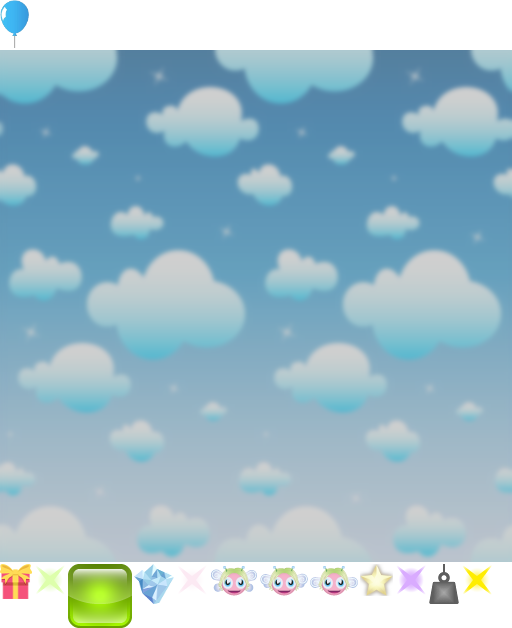
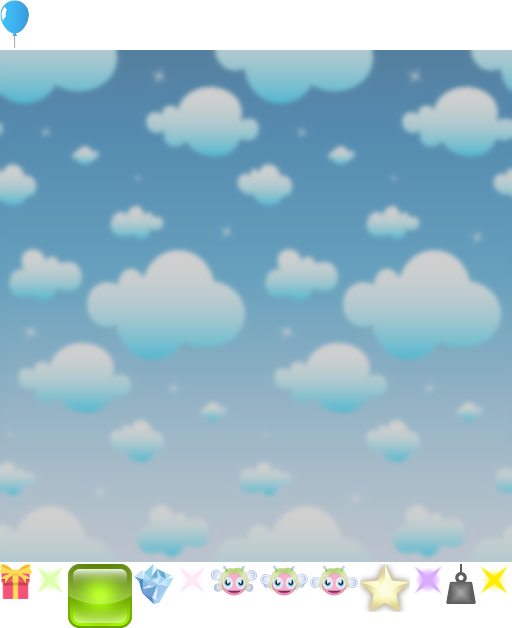
Show number of collected stars on game over success

Changed region(s): [[0.6875, 0.8774, 1.0, 0.9984]]

diff --git a/src/states/GameOverState.js b/src/states/GameOverState.js
@@ -1,4 +1,4 @@
-import { Container, TilingSprite, BitmapText } from '../const/aliases.js';
+import { Container, Sprite, TilingSprite, BitmapText } from '../const/aliases.js';
 
 import State from './State.js';
 import TitleState from './TitleState.js';
@@ -7,11 +7,11 @@ import KeyBinder from '../helpers/KeyBinder.js';
 import { RENDERER_WIDTH, RENDERER_HEIGHT } from '../const/appConstants.js';
 
 export default class GameOverState extends State {
-  constructor(stage, stateStack, textures, sounds, success) {
+  constructor(stage, stateStack, textures, sounds, success, numberOfStars) {
     super(stage, stateStack, textures, sounds);
 
     this.container.addChild(new TilingSprite(textures['clouds.png'], RENDERER_WIDTH, RENDERER_HEIGHT));
-    this.createTexts(success);
+    this.createTexts(success, numberOfStars);
 
     this.keyControllers.push(new KeyBinder(32, null, () => {
       this.popFromStack();
@@ -23,20 +23,35 @@ export default class GameOverState extends State {
     }
   }
 
-  createTexts(success) {
+  createTexts(success, numberOfStars) {
     const textContainer = new Container();
     this.container.addChild(textContainer);
 
-    let messageText = new BitmapText('Whoops!', {font: '64px pixie-font'});
+    let resultText = new BitmapText('Whoops!', {font: '64px pixie-font'});
     if (success) {
-      messageText.text = 'Yay!';
+      resultText.text = 'Congratulations!';
     }
-    messageText.anchor.x = 0.5;
-    textContainer.addChild(messageText);
+    resultText.anchor.x = 0.5;
+    textContainer.addChild(resultText);
 
-    let hintText = new BitmapText('Press space to continue', {font: '48px pixie-font'});
+    let yPos = resultText.height + 40;;
+
+    if (success) {
+      let starResultContainer =  new Container();
+      starResultContainer.addChild(new Sprite(this.textures['star.png']));
+      let messageText = new BitmapText(`x ${numberOfStars}`, {font: '48px pixie-font'});
+      messageText.x = 60;
+      messageText.y = 7;
+      starResultContainer.addChild(messageText);
+      starResultContainer.x -= starResultContainer.width / 2;
+      starResultContainer.y = yPos;
+      yPos += messageText.height + 40;
+      textContainer.addChild(starResultContainer);
+    }
+
+    let hintText = new BitmapText('Press space to continue', {font: '32px pixie-font'});
     hintText.anchor.x = 0.5;
-    hintText.y = messageText.y + messageText.height + 40;
+    hintText.y = yPos;
     textContainer.addChild(hintText);
 
     textContainer.x = RENDERER_WIDTH / 2;

diff --git a/src/game/World.js b/src/game/World.js
@@ -145,7 +145,10 @@ export default class World {
     let starsContainer = new Container();
     this.container.addChild(starsContainer);
 
-    starsContainer.addChild(new Sprite(this.textures['star.png']));
+    let star = new Sprite(this.textures['star.png']);
+    star.width = 33;
+    star.height = 32;
+    starsContainer.addChild(star);
     this.numberOfStarsText = new BitmapText(this.numberOfStars.toString(), {font: '30px pixie-font'});
     this.numberOfStarsText.x = 46;
     this.numberOfStarsText.y = 6;

diff --git a/src/states/HintState.js b/src/states/HintState.js
@@ -21,7 +21,7 @@ export default class HintState extends State {
     messageText.anchor.x = 0.5;
     this.container.addChild(messageText);
 
-    const hintText = new BitmapText('Press space to start', {font: '40px pixie-font'});
+    const hintText = new BitmapText('Press space to start', {font: '32px pixie-font'});
     hintText.anchor.x = 0.5;
     hintText.y = messageText.y + messageText.height + 40;
     this.container.addChild(hintText);

diff --git a/src/states/PauseState.js b/src/states/PauseState.js
@@ -21,7 +21,7 @@ export default class PauseState extends State {
     messageText.anchor.x = 0.5;
     this.container.addChild(messageText);
 
-    let hintText = new BitmapText('Press ESC to resume', {font: '40px pixie-font'});
+    let hintText = new BitmapText('Press ESC to resume', {font: '32px pixie-font'});
     hintText.anchor.x = 0.5;
     hintText.y = messageText.y + messageText.height + 40;
     this.container.addChild(hintText);

diff --git a/src/states/GameState.js b/src/states/GameState.js
@@ -63,6 +63,6 @@ export default class GameState extends State {
 
   gameOver(success) {
     this.popFromStack();
-    this.stateStack.push(new GameOverState(this.stage, this.stateStack, this.textures, this.sounds, success));
+    this.stateStack.push(new GameOverState(this.stage, this.stateStack, this.textures, this.sounds, success, this.world.numberOfStars));
   }
 }
